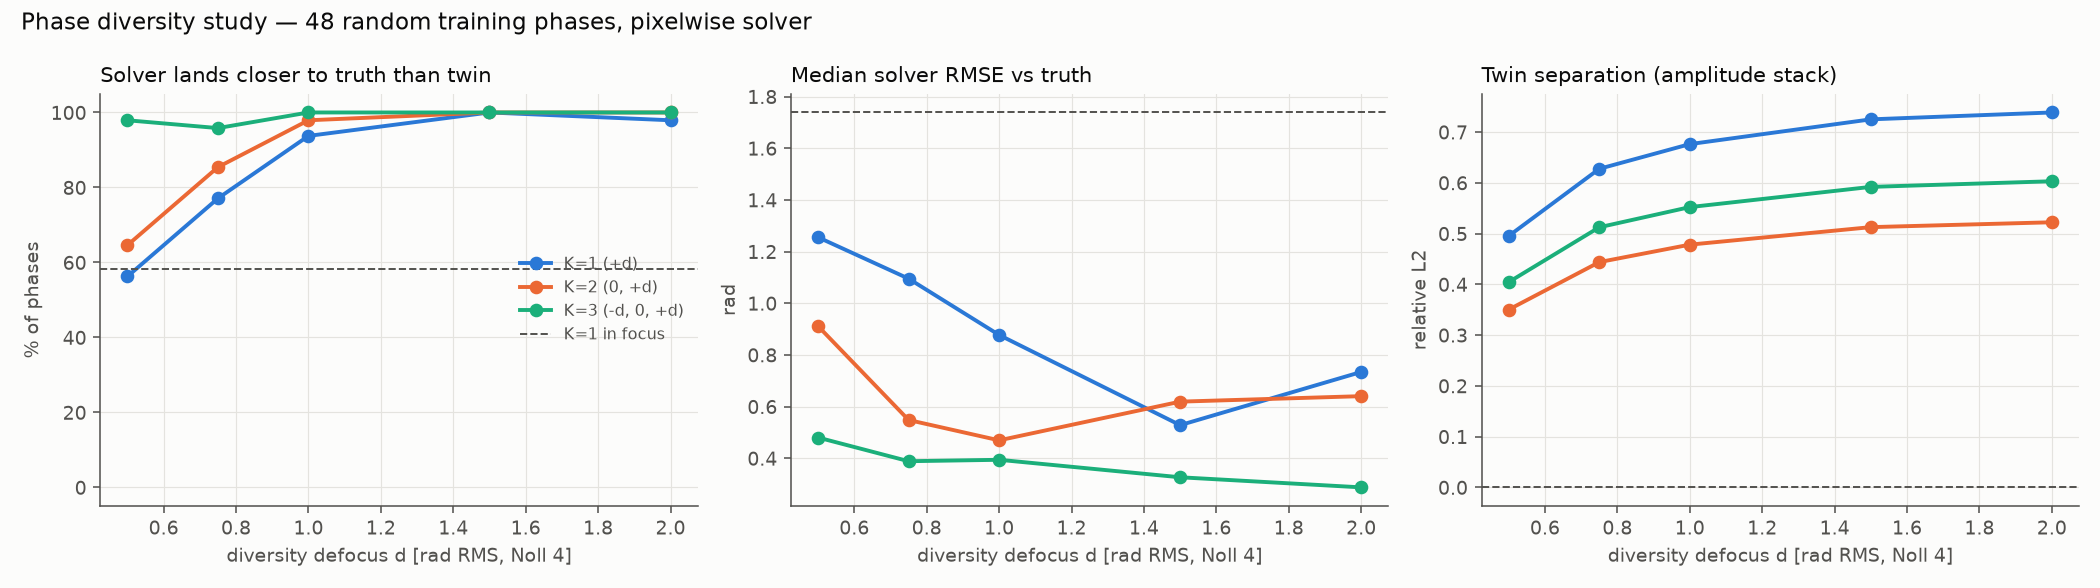
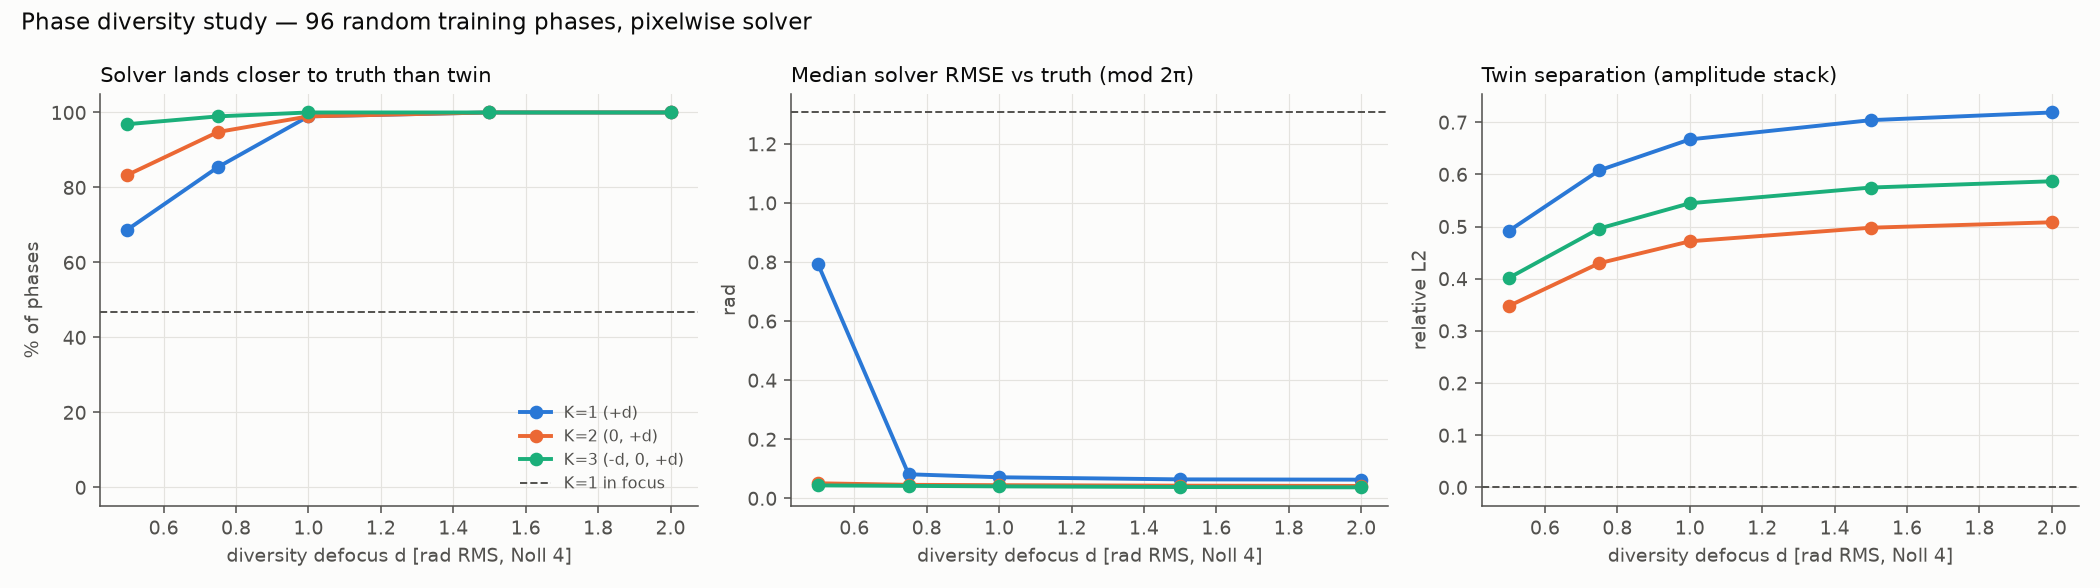
..

diff --git a/ai/diversity_study.py b/ai/diversity_study.py
@@ -120,7 +120,7 @@ def plot(results, num_phases, path):
             ax.spines[s].set_color(muted)
         ax.tick_params(colors=muted)
     axes[0].set_ylim(-5, 105)
-    axes[0].legend(frameon=False, fontsize=8, labelcolor=muted, loc='center right')
+    axes[0].legend(frameon=False, fontsize=8, labelcolor=muted, loc='lower right')
     fig.suptitle(f"Phase diversity study — {num_phases} random training phases, pixelwise solver",
                  color=ink, x=0.01, ha='left')
     plt.tight_layout()
